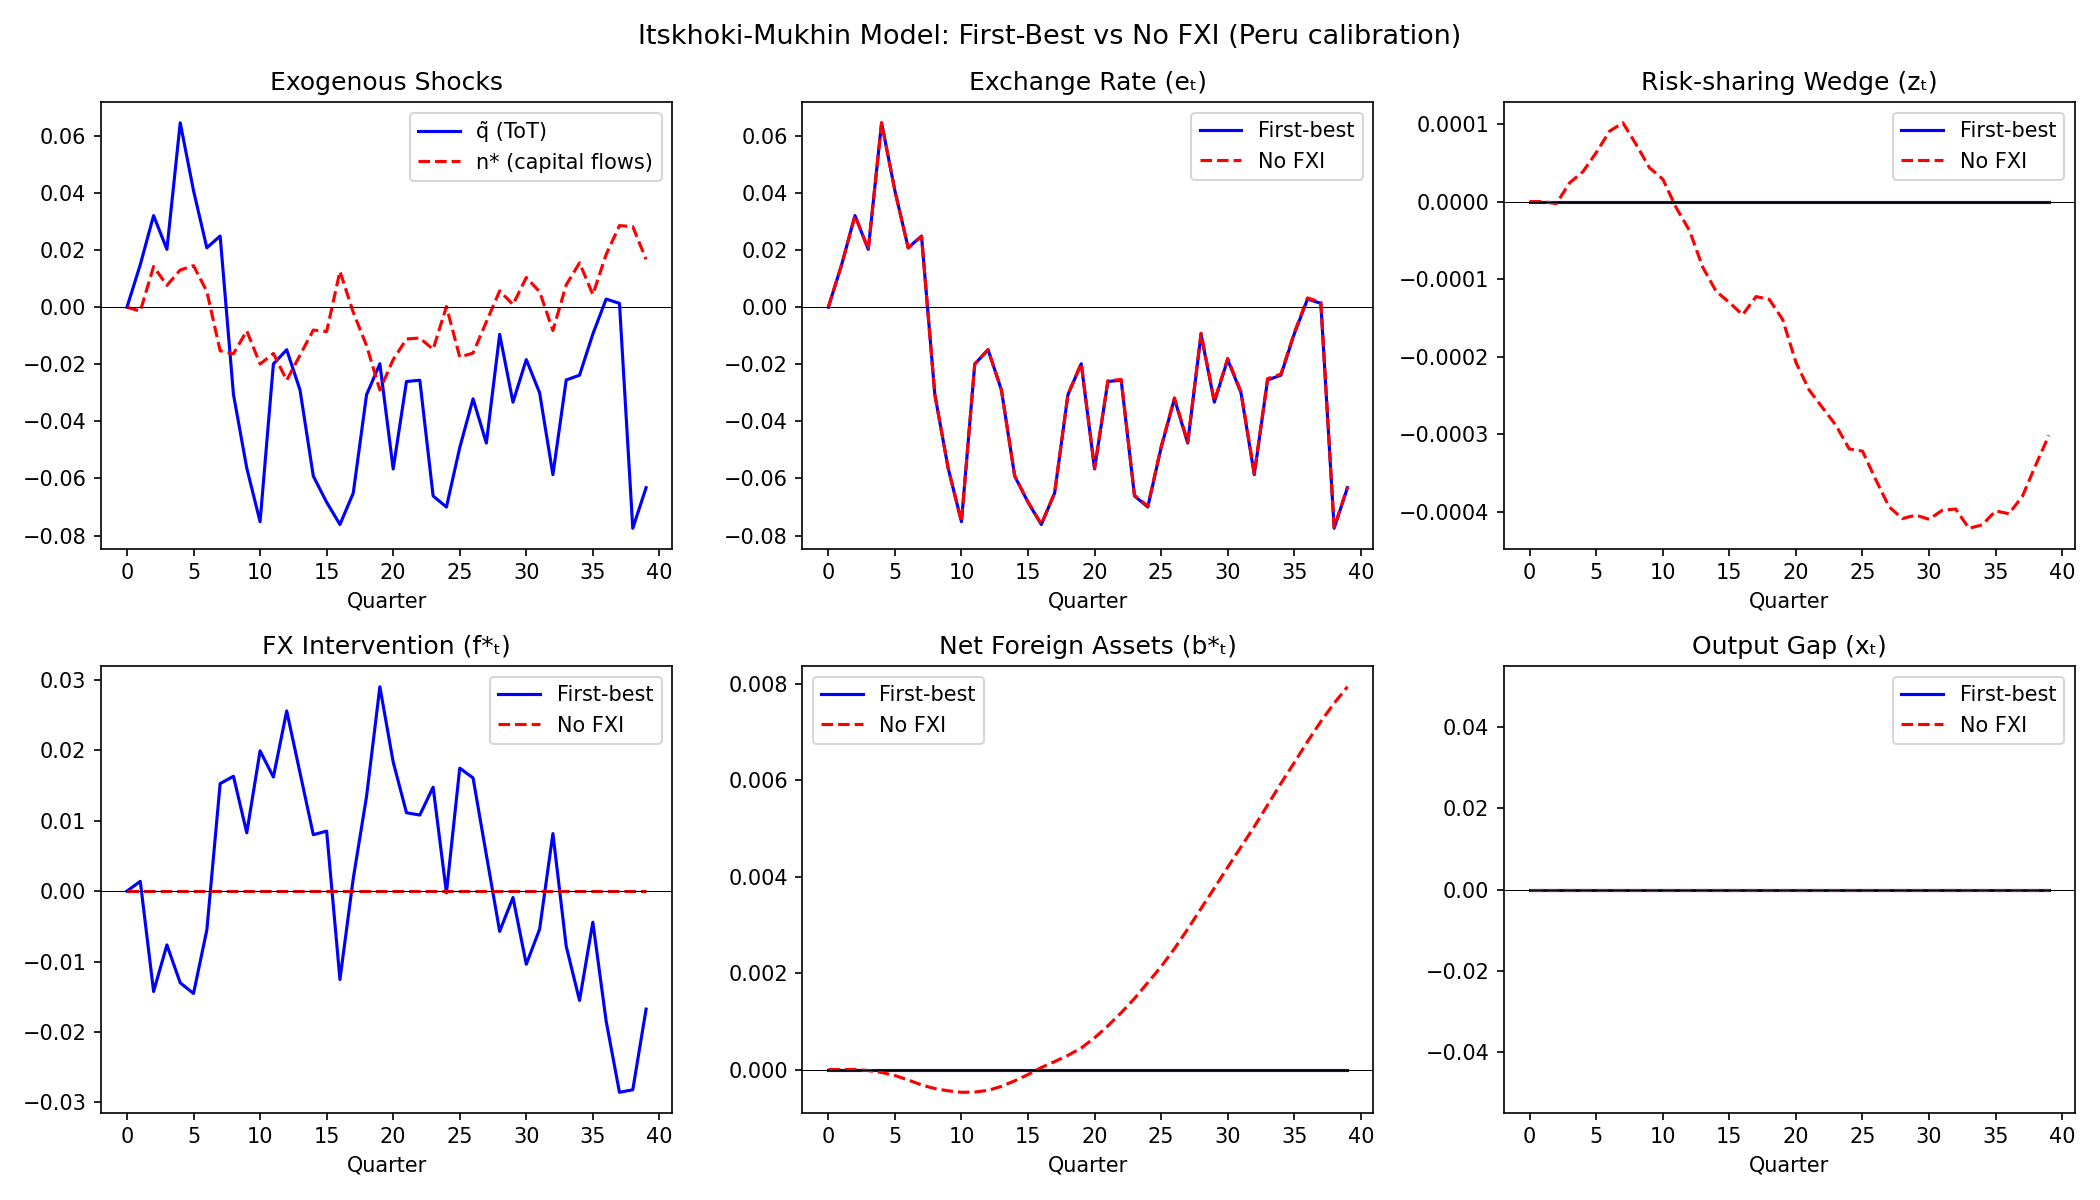
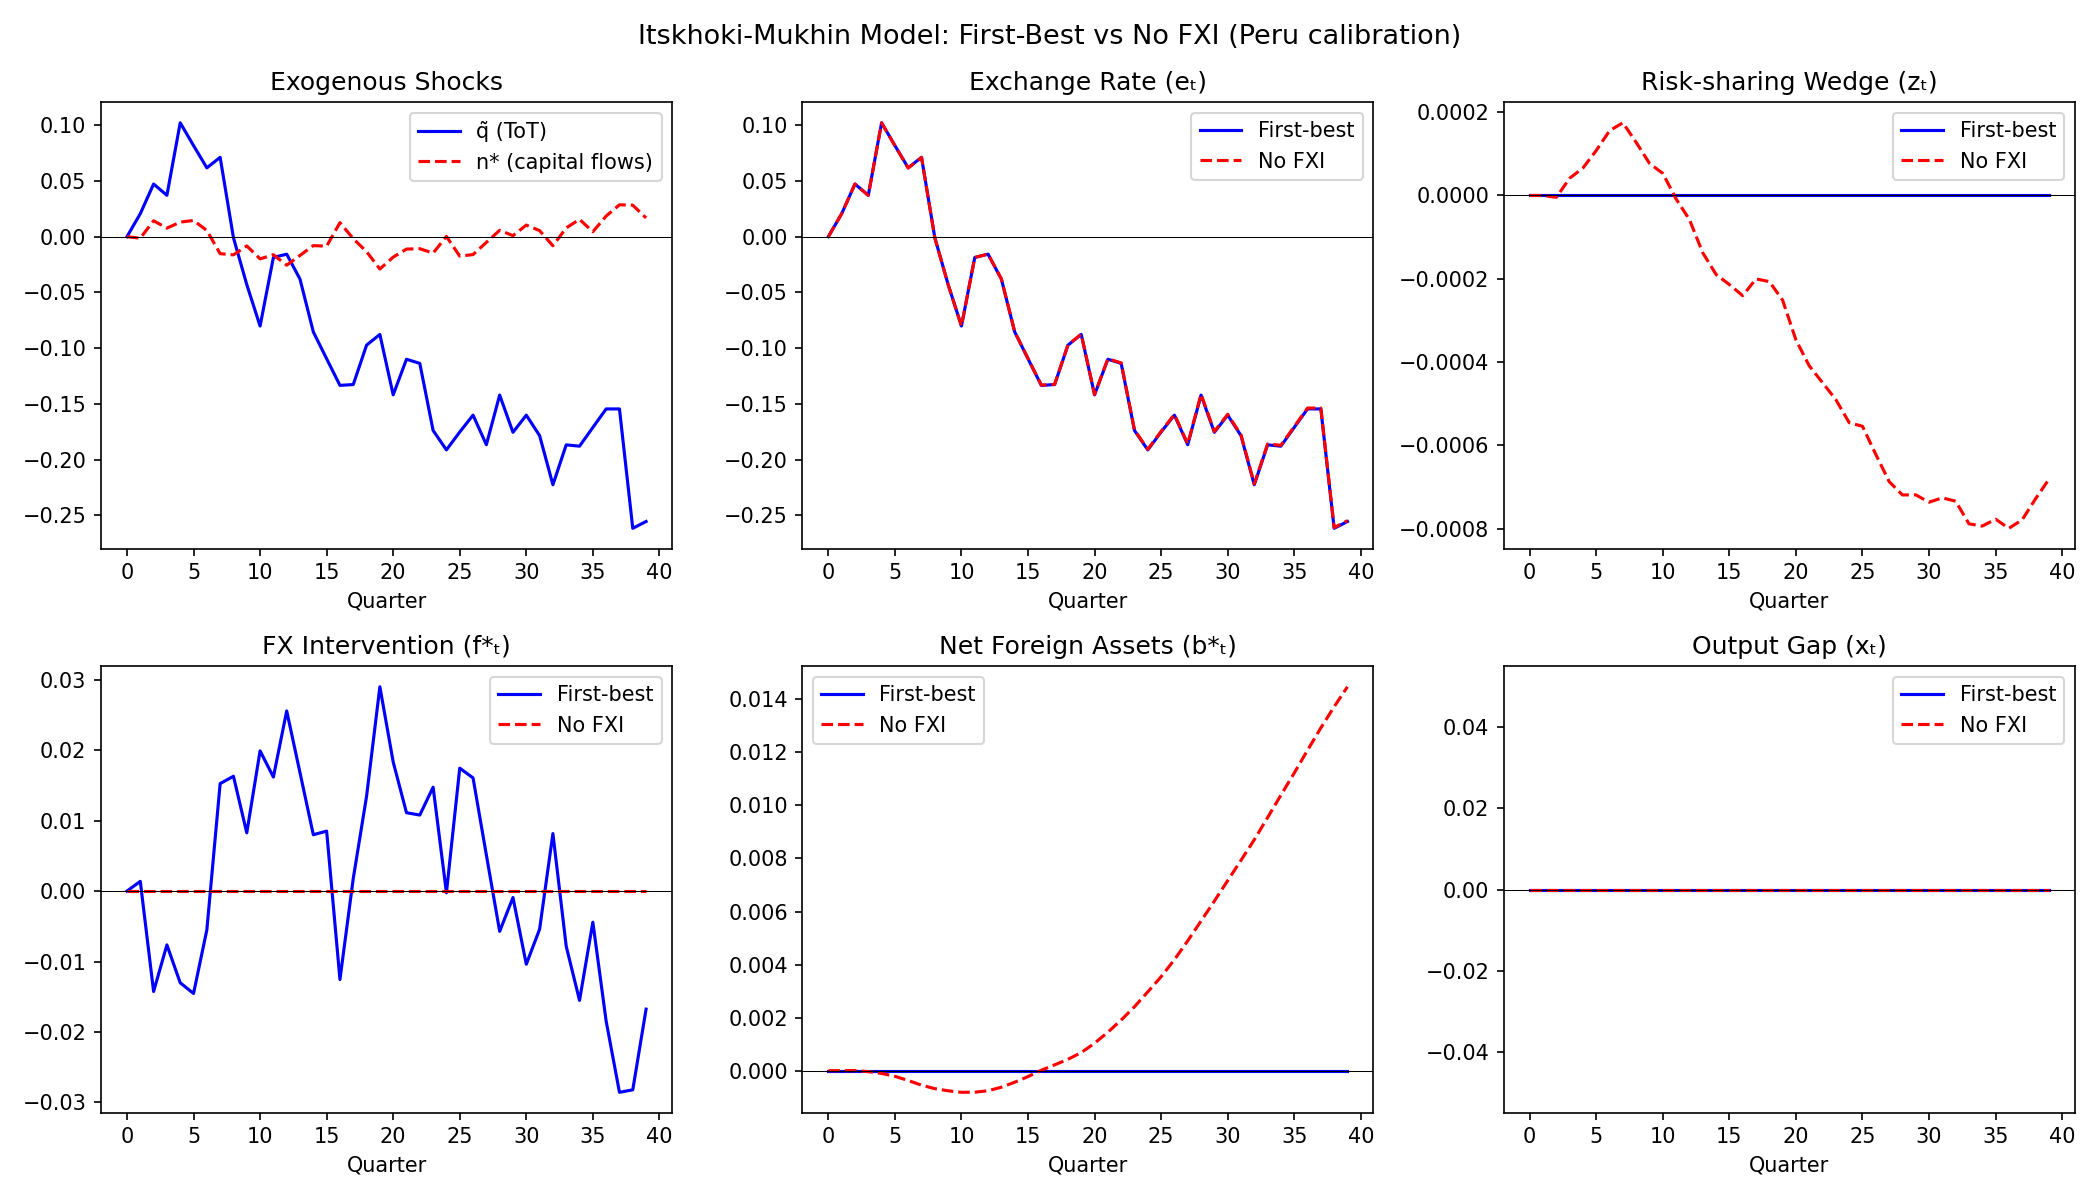
further parametrization and essay.tex

diff --git a/paper/essay.tex b/paper/essay.tex
@@ -1,0 +1,123 @@
+\documentclass[12pt,a4paper]{article}
+
+% --- Page Layout ---
+\usepackage[margin=1in]{geometry}
+\usepackage{setspace}
+% \doublespacing
+
+% --- Paragraph Formatting ---
+\usepackage{parskip}  % no paragraph indentation, adds vertical space
+\setlength{\parindent}{15pt}  % resets indentation 
+\usepackage{indentfirst}  % indent first paragraph of sections (optional)
+
+% --- Font and Typography ---
+\usepackage{newpxtext,newpxmath}
+% \usepackage{times}
+\usepackage[T1]{fontenc}
+\usepackage[utf8]{inputenc}
+
+% --- Section Title Formatting ---
+\usepackage{titlesec}
+\titleformat{\section}{\normalfont\Large\bfseries}{\thesection.}{1em}{}
+\titleformat{\subsection}{\normalfont\large\bfseries}{\thesubsection.}{1em}{}
+
+% --- Math ---
+\usepackage{amsmath, amssymb, amsthm}
+
+% --- Figures and Tables ---
+\usepackage{graphicx}
+\usepackage{caption}
+\usepackage{subcaption}
+\usepackage{float}
+\usepackage{booktabs}
+\usepackage{arydshln}
+
+% --- References ---
+% \usepackage{natbib}
+% \usepackage[
+%     backend=biber,
+%     style=authoryear,
+%     natbib=true
+% ]{biblatex}
+% \addbibresource{bibliography.bib}
+\usepackage{natbib}
+\bibliographystyle{apalike}
+
+% --- Hyperlinks ---
+\usepackage{hyperref}
+\hypersetup{
+    colorlinks=true,
+    linkcolor=blue,
+    citecolor=blue,
+    urlcolor=blue
+}
+
+% --- Theorems ---
+\newtheorem{theorem}{Theorem}
+\newtheorem{proposition}{Proposition}
+\newtheorem{lemma}{Lemma}
+
+ % --- Header/Footer (optional for working papers) ---
+% \usepackage{fancyhdr}
+% \pagestyle{fancy}
+% \fancyhead[L]{Working Paper}
+% \fancyhead[R]{\thepage}
+
+% --- Rotating tables ---
+\usepackage{rotating} % Needed for sidewaystable
+
+\title{EC421 Independent Research proposal \\ 
+    Is Peru's FX Intervention Optimal? A Calibrated Framework}
+\author{Gonzalo Bueno Bustíos}
+\date{December 2025}
+
+\begin{document}
+
+\maketitle
+
+\section{Research question}
+
+In recent years, due to significant movements of capital around the world, Central Banks have been keen on participating in the FX market. This has evoked questions regarding what the optimal FX policy to implement is. Does this policy maximize welfare? What are the optimal policy tools to implement it? Through what channels do these tools operate?
+
+This proposal is based on analyzing the particular case of the Peruvian Central Bank. This case is particular due to the practice of participating with FX interventions to reduce exchange rate volatility, but also through market swaps that keep international reserves untouched. This has been a success case. Compared to the rest of South America, Peru has had one of the lowest depreciations as well as less volatility in recent years.
+
+\begin{figure}[H]
+    \centering
+    \caption{FX Trends over time}
+    \includegraphics[width=\linewidth]{figures/fx_plot.png }     \label{fig:fx_plot}
+ \end{figure}
+
+From 2002 to 2025 (implementation of Inflation Targeting in Peru), the volatility of the USD/Sol Peruano (Peruvian currency) exchange rate has been 1.3\footnote{This has been measured as the standard deviation of the log variation of the interest rate normalized to 100.}, which is 1.7 and 2.41 times the average volatility of developed countries (excluding China) and emerging economies respectively.
+
+This has been a particular challenge, as the Peruvian economy is a partially dollarized one (by September of 2025, 25.5 percent of credit issued to the private sector is in USD). This means that there exists a balance sheet effect of exchange rate volatility over firms, which creates an incentive for the Central Bank to intervene in FX markets to reduce volatility and therefore eliminate a potential channel from where risk can impact the real economy or create a stronger feedback effect over USD depreciation.
+
+\begin{figure}[H]
+    \centering
+    \caption{Dollarization rate}
+    \includegraphics[width=0.85\linewidth]{figures/doll_plot.png }     \label{fig:doll_plot}
+ \end{figure}
+
+This case has already been subject to study. In \cite{MONTORO2023102825}, a New Keynesian small open economy model with financial intermediaries as in \cite{doi:10.1086/714447} is used to generate deviations from UIP. The authors show that shocks can trigger inefficient FX paths and that policy responses can increase welfare.
+
+\section{Methodology proposal and implementation plan}
+
+The research question of this essay will be: has the FX policy of the Peruvian Central Bank been optimal? 
+
+This project will be done in four stages:
+
+\begin{enumerate}
+    \item \textbf{Deeper review of existing literature.} The current literature review has been based on recent results of the current state of the academic debate. In the first stage, I will enrich the literature with theoretical papers that support the modeling decisions and similar case studies.
+    
+    \item \textbf{Theoretical model.} In the essay, I will elaborate on a simplified version of \cite{itskhokimukhin2025} that captures the policy decision of a Central Bank. It will minimize a loss function between the output gap (or a measure that relies on sticky prices, such as actual inflation relative to the target) and a wedge that measures deviations from UIP. The restrictions will come from: (1) risk-sharing conditions [international access to foreign markets], (2) allocation of consumption between tradables and non-tradables [equilibrium in the goods market], and (3) equilibrium in the financial market. It is in this case where intervention in the FX market can absorb the shocks that create deviations from UIP due to capital flows in the financial market. I will prioritize having an analytically simple form of the model that will allow for a detailed analysis of how it works. The equations will be derived, but the main theorems explored in \cite{itskhokimukhin2025} will be used as given.
+    
+    \item \textbf{Stylized facts and calibration.} Using literature on estimation and calibration of Peruvian models (in particular \cite{MONTORO2023102825} already has some results that can be useful), some parameters will be recovered. The remaning parameters of the model will be either estimated through simple OLS regressions or calibrated such that they match how data behaves. Due to the limitations on time and scope of this essay the calibration will not be extensive. An opportunity to expand and improve the essay would be the use of stronger methods, like Bayesian econometrics, to estimate the parameters of the model.
+    
+    \item \textbf{Comparison of policy reactions to shocks and measurements of welfare.} Four episodes will be contrasted: the 2008 financial crisis, the taper tantrum, the 2020 pandemic, 2021 elections. I will simulate shocks of the same magnitude and estimate what the model predicts is the correct strategy and contrast it with the actual policy path. Then, a measure of welfare can be recovered from the loss function of the Central Bank.
+    
+\end{enumerate}
+
+This essay aims to shed light on the literature through the calibration of a novel model to estimate the optimal FX policy for a particular country. Differently from \cite{MONTORO2023102825}, where they discard optimal rules from a central bank optimization problem, I will contrast the results with the policy resulting from \cite{itskhokimukhin2025}.
+
+\bibliography{bibliography}
+\end{document}
+

diff --git a/code/02_parameters.py b/code/02_parameters.py
@@ -1,0 +1,30 @@
+import pandas as pd
+import numpy as np
+from statsmodels.tsa.ar_model import AutoReg
+import json
+
+data_quarterly = pd.read_excel("data/DataParametrization.xlsx", sheet_name="Quarterly")
+for col in ['tot', 'px', 'pm', 'X', 'M', 'Y']:
+    data_quarterly[col] = pd.to_numeric(data_quarterly[col], errors='coerce')
+
+gamma_xm    = ((data_quarterly.X + data_quarterly.M)/(2*data_quarterly.Y)).mean() # Openness measure
+gamma_m     = (data_quarterly.M/data_quarterly.Y).mean() # Consumption on tradables share
+gamma       = gamma_m
+
+print(f'gamma (import share): {gamma_m:.4f}')
+print(f'gamma (avg trade share): {gamma_xm:.4f}')
+
+tot        = np.log(data_quarterly.tot.astype(float))
+tot_demean = tot - tot.mean()
+
+
+
+#####################
+# Update params.json
+#####################
+
+with open('code/params.json') as f:
+    p = json.load(f)
+p['gamma'] = round(gamma, 4)
+with open('code/params.json', 'w') as f:
+    json.dump(p, f, indent=4)
